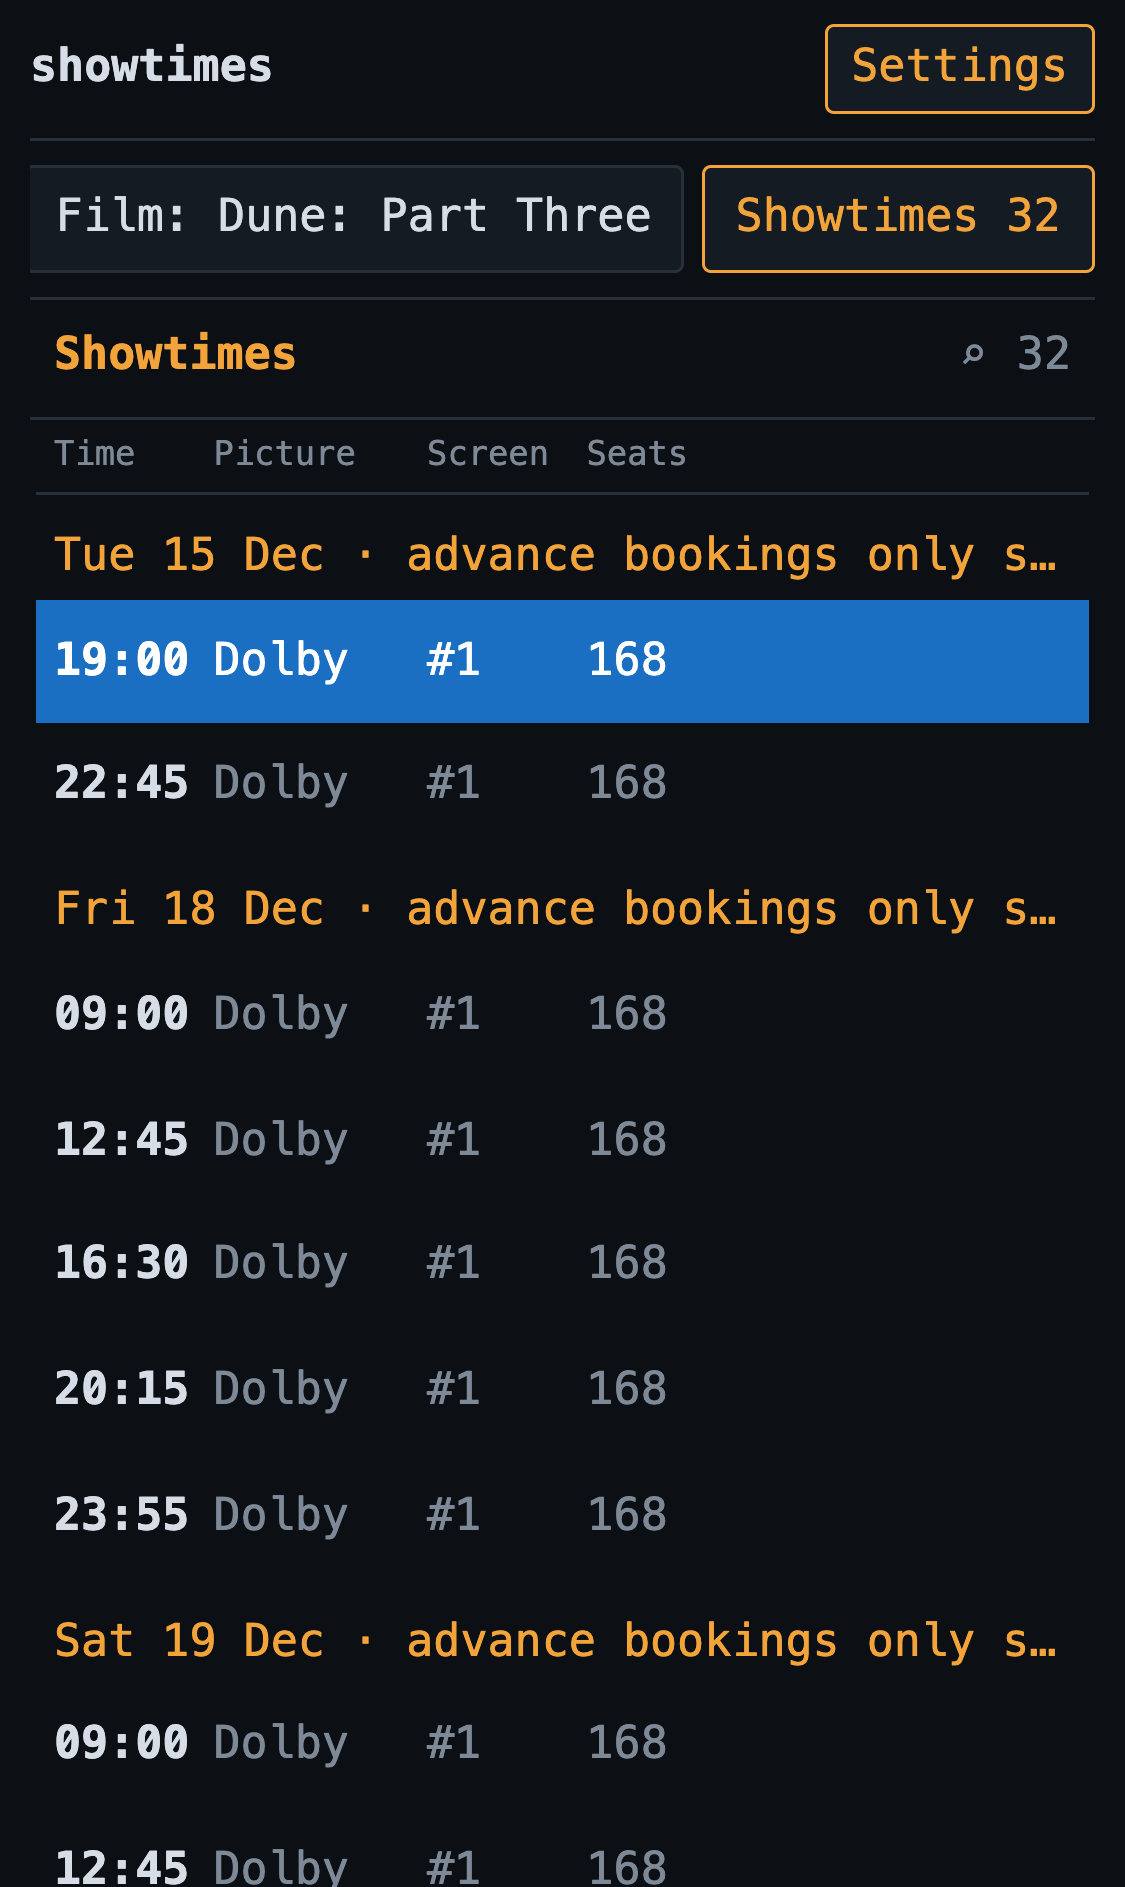
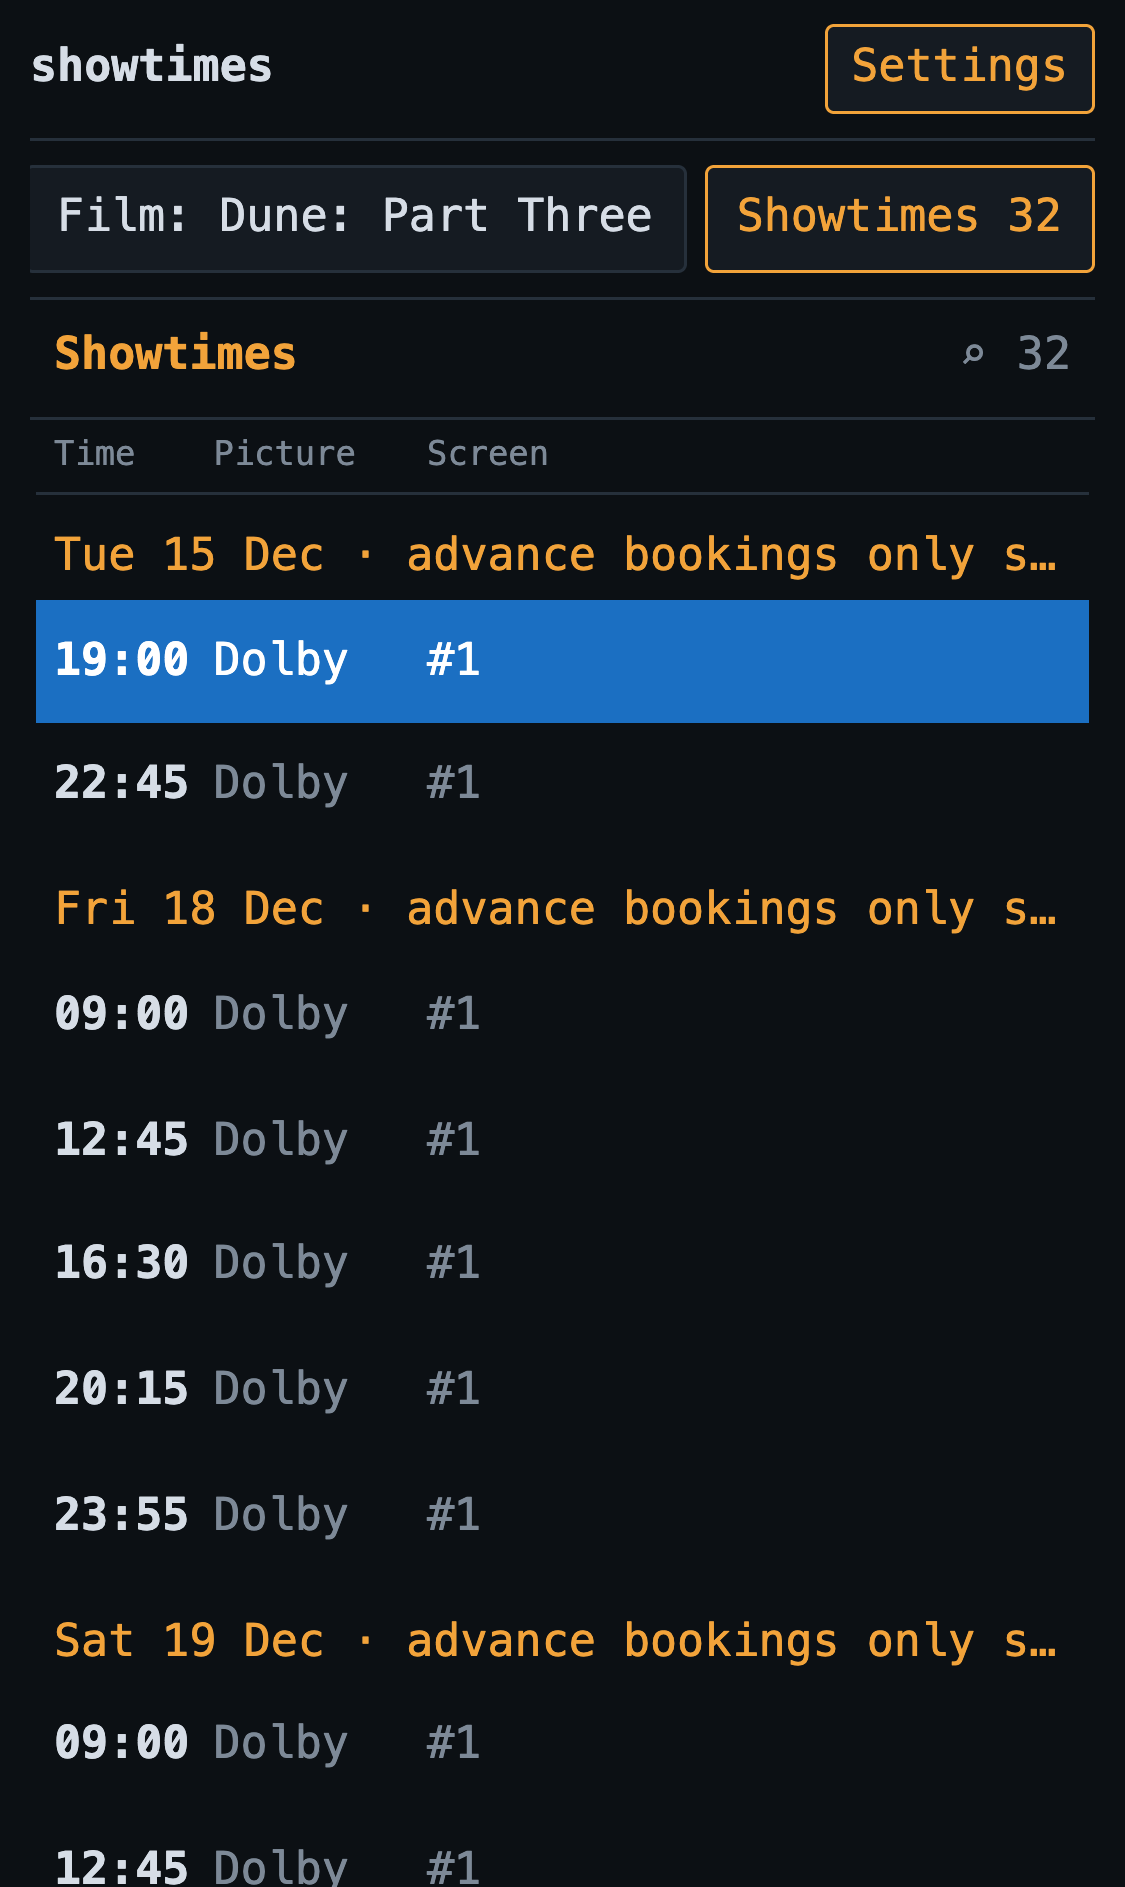
feat(site): open on a Chain column, and drop Seats from the default details
The site now opens on Chain, Cinema and Film. Seats is no longer shown by
default because only ODEON gives screen capacities; it stays available with
:set fields+=seats. The Chain column sizes to its longest name and count, so
neither is cut off. Once a chain is picked, the Cinema column drops its chain
note, which would only repeat the chain.

diff --git a/site/e2e/flow.spec.ts b/site/e2e/flow.spec.ts
@@ -34,7 +34,7 @@ async function visit(page: Page, address: string) {
 
 test('the site opens on the finder, with the default columns and a quick start', async ({ page }) => {
   await visit(page, '/');
-  await expect(titles(page)).toHaveText(['Cinema', 'Film', 'Showtimes', /./]);
+  await expect(titles(page)).toHaveText(['Chain', 'Cinema', 'Film', 'Showtimes', /./]);
   await expect(total(page)).toHaveText('254'); // event cinema left out
   await expect(choices(page, 'Film')).toHaveText([/^All/, /^Dune/, /^Paddington/]);
 });
@@ -57,7 +57,7 @@ test('keys choose in each column, each counts what the others leave, and the add
   await page.keyboard.press('g'); // the first line: All
   await expect(total(page)).toHaveText('3');
   await page.locator('header h1 a').click(); // the default view, which needs nothing after the address
-  await expect(titles(page)).toHaveText(['Cinema', 'Film', 'Showtimes', /./]);
+  await expect(titles(page)).toHaveText(['Chain', 'Cinema', 'Film', 'Showtimes', /./]);
   await expect(page).toHaveURL(/\/$/);
 });
 
@@ -84,7 +84,7 @@ test('vim keys move between and through the columns', async ({ page }) => {
 });
 
 test('/ and ? search a column as vim does, dd hides, u and Ctrl-r undo and redo, and :help lists it all', async ({ page }) => {
-  await visit(page, '/#col=2');
+  await visit(page, '/#col=3');
   await page.keyboard.press('/');
   await page.keyboard.type('padd'); // found as it is typed
   await expect(column(page, 'Film').locator('li.selected')).toContainText('Paddington');
@@ -116,7 +116,7 @@ test('/ and ? search a column as vim does, dd hides, u and Ctrl-r undo and redo,
 });
 
 test('vim keys move through the showtimes by count, day and screen', async ({ page }) => {
-  await visit(page, '/#film=odeon-F2&col=3'); // Paddington: one showing on day 1, then ten a day from day 3
+  await visit(page, '/#film=odeon-F2&col=4'); // Paddington: one showing on day 1, then ten a day from day 3
   const selected = () => showtimes(page).evaluateAll((rows) => rows.findIndex((row) => row.classList.contains('selected')));
   await page.keyboard.press('}');
   await expect.poll(selected).toBe(1); // the next day
@@ -188,7 +188,7 @@ test(':vs adds a column, << and >> move it, :q and :only close them', async ({ p
 });
 
 test('Tab completes commands as vim\'s wildmenu does', async ({ page }) => {
-  await visit(page, '/#col=2');
+  await visit(page, '/#col=3');
   const command = page.locator('.cmdline input');
   const wildmenu = page.locator('.cmdline .wildmenu');
   await page.keyboard.press(':');
@@ -202,7 +202,7 @@ test('Tab completes commands as vim\'s wildmenu does', async ({ page }) => {
   await page.keyboard.press('Shift+Tab');
   await expect(command).toHaveValue('vs day');
   await page.keyboard.press('Enter');
-  await expect(titles(page)).toHaveText(['Cinema', 'Film', 'Day', 'Showtimes', /./]);
+  await expect(titles(page)).toHaveText(['Chain', 'Cinema', 'Film', 'Day', 'Showtimes', /./]);
   await page.keyboard.press(':');
   await page.keyboard.type('set fields+=');
   await page.keyboard.press('Tab'); // the fields not shown yet
@@ -230,15 +230,15 @@ test('the settings drawer is driven by keys too', async ({ page }) => {
   await page.keyboard.press('Enter');
   await page.keyboard.press('d');
   await page.keyboard.press('d'); // removes that column
-  await expect(titles(page)).toHaveText(['Cinema', 'Showtimes', /./]);
+  await expect(titles(page)).toHaveText(['Chain', 'Cinema', 'Showtimes', /./]);
   await page.keyboard.press('u');
-  await expect(titles(page)).toHaveText(['Cinema', 'Film', 'Showtimes', /./]);
+  await expect(titles(page)).toHaveText(['Chain', 'Cinema', 'Film', 'Showtimes', /./]);
   await page.keyboard.press('/');
   await page.keyboard.type('every film');
   await page.keyboard.press('Enter');
   await page.keyboard.press('<');
   await page.keyboard.press('<'); // Film moved left
-  await expect(titles(page)).toHaveText(['Film', 'Cinema', 'Showtimes', /./]);
+  await expect(titles(page)).toHaveText(['Chain', 'Film', 'Cinema', 'Showtimes', /./]);
   await ex(page, 'q');
   await expect(panel).toBeHidden();
   await page.keyboard.press(':');
@@ -248,7 +248,7 @@ test('the settings drawer is driven by keys too', async ({ page }) => {
 });
 
 test(':filter narrows a column and :sort orders it', async ({ page }) => {
-  await visit(page, '/#col=2');
+  await visit(page, '/#col=3');
   await ex(page, 'filter padd');
   await expect(choices(page, 'Film')).toHaveText([/^All/, /^Paddington/]);
   await page.keyboard.press('j');
@@ -264,13 +264,13 @@ test(':filter narrows a column and :sort orders it', async ({ page }) => {
   await ex(page, 'sort! seats');
   await expect(page).toHaveURL(/sort=seats&desc=1/);
   await ex(page, 'set fields+=ends fields-=picture');
-  await expect(page).toHaveURL(/fields=ends,cinema,screen,seats/);
+  await expect(page).toHaveURL(/fields=ends,cinema,screen/);
   await ex(page, 'set fields&');
   await expect(page).not.toHaveURL(/fields=/);
 });
 
 test('a long list of showtimes draws more as the reader scrolls and as the highlight moves', async ({ page }) => {
-  await visit(page, '/#col=3');
+  await visit(page, '/#col=4');
   await expect(showtimes(page)).toHaveCount(100);
   await page.locator('.column.showtimes').evaluate((element) => element.scrollTo(0, element.scrollHeight));
   await expect(showtimes(page)).toHaveCount(200);
@@ -281,7 +281,7 @@ test('a long list of showtimes draws more as the reader scrolls and as the highl
 
 test('the window holds the columns clear of the footer, and a highlighted row clear of its heading', async ({ page }) => {
   await page.setViewportSize({ width: 1024, height: 700 });
-  await visit(page, '/#col=3');
+  await visit(page, '/#col=4');
   for (const [key, times] of [['ArrowDown', 40], ['ArrowUp', 30]] as const) for (let press = 0; press < times; press += 1) await page.keyboard.press(key);
   const box = async (selector: string) => (await page.locator(selector).first().boundingBox())!;
   const [strip, footer, heads, row] = [await box('.columns'), await box('footer'), await box('.showtimes li.heads'), await box('.showtimes .selected')];
@@ -292,7 +292,9 @@ test('the window holds the columns clear of the footer, and a highlighted row cl
 test('the showtimes are headed, a heading orders them, and the settings choose what they show', async ({ page }) => {
   await visit(page, '/#film=odeon-F1');
   const heads = page.locator('.showtimes li.heads');
-  await expect(heads).toHaveText(/Time.*Picture.*Cinema.*Screen.*Seats/); // the film is chosen, so not repeated
+  await expect(heads).toHaveText(/Time.*Picture.*Cinema.*Screen$/); // the film is chosen, so not repeated
+  await ex(page, 'set fields+=seats');
+  await expect(heads).toHaveText(/Time.*Picture.*Cinema.*Screen.*Seats/);
   await expect(page.locator('.column.film li.heads')).toHaveText(/IMDb.*showings/);
   await heads.getByRole('button', { name: 'Order by seats' }).click();
   await expect(page).toHaveURL(/sort=seats/);
@@ -352,14 +354,16 @@ test('event cinema and single cinemas are chosen in the settings', async ({ page
 test('a phone shows one column at a time, and a choice moves on to the next', async ({ page }) => {
   await page.setViewportSize({ width: 375, height: 812 }); // an iPhone 13 mini
   await visit(page, '/');
-  await expect(page.locator('.column:visible .bar h2')).toHaveText('Cinema');
+  await expect(page.locator('.column:visible .bar h2')).toHaveText('Chain');
   // The header is one line, and there is no footer.
   expect((await page.locator('header').boundingBox())!.height).toBeLessThan(50);
   await expect(page.locator('footer')).toBeHidden();
   // Nothing in a column is wider than the screen, so it cannot be dragged sideways.
   const wider = () => page.locator('.column:visible').evaluate((column) => column.scrollWidth - column.clientWidth);
   await expect.poll(wider).toBe(0);
-  await page.locator('.column.cinema li', { hasText: 'All' }).first().click(); // All moves on too
+  await page.locator('.column.chain li', { hasText: 'All' }).first().click(); // All moves on too
+  await expect(page.locator('.column:visible .bar h2')).toHaveText('Cinema');
+  await page.locator('.column.cinema li', { hasText: 'All' }).first().click();
   await expect(page.locator('.column:visible .bar h2')).toHaveText('Film');
   await page.locator('.column.film li', { hasText: 'Dune' }).click();
   await expect(page.locator('.column:visible')).toHaveClass(/showtimes/);
@@ -369,7 +373,7 @@ test('a phone shows one column at a time, and a choice moves on to the next', as
   await expect.poll(wider).toBe(0);
   await expect(page.locator('.column.details .actions a')).toHaveText('Book on odeon.co.uk');
   // Out of date order each row adds its day; what no longer fits is left out, and the seats stay.
-  await visit(page, '/#sort=seats&col=3');
+  await visit(page, '/#fields=picture,cinema,screen,seats&sort=seats&col=4');
   await expect(page.locator('.showtimes li.heads')).toHaveText(/^Day.*Seats ▲$/);
   await expect.poll(wider).toBe(0);
 });

diff --git a/site/src/main.ts b/site/src/main.ts
@@ -132,9 +132,10 @@ const busiest = (values: string[], counts: Map<string, number>) => [...values].s
 const plain = (value: string): [string, string] => [value, ''];
 const tag = (value: string): [string, string] => [value, ''];
 const cinemaNames = () => new Map(db.cinemas.map((cinema) => [cinema.id, cinema.short]));
-/** With more than one chain, a cinema's chain, for a note beside its name: two chains may each have a West End. */
+/** With more than one chain, a cinema's chain, for a note beside its name: two chains may each have a West End.
+ * Once a chain is picked, every cinema left is that chain's, so the note would only repeat it. */
 const chainOf = (cinemaId: string) => {
-  if (db.chains.size < 2) return '';
+  if (db.chains.size < 2 || view.picks.chain) return '';
   const chain = cinemaChains.get(cinemaId);
   return chain ? db.chains.get(chain)?.name ?? chain : '';
 };
@@ -159,7 +160,7 @@ const KINDS: Record<q.Facet, Kind> = {
     },
     natural: alphabetical(() => KINDS.film),
   },
-  cinema: { title: 'Cinema', about: 'each cinema', notes: () => (db.chains.size > 1 ? 'chain' : ''), label: (value) => [names.get(value) ?? value, chainOf(value)], natural: alphabetical(() => KINDS.cinema) },
+  cinema: { title: 'Cinema', about: 'each cinema', notes: () => (db.chains.size > 1 && !view.picks.chain ? 'chain' : ''), label: (value) => [names.get(value) ?? value, chainOf(value)], natural: alphabetical(() => KINDS.cinema) },
   location: { title: 'Location', about: 'towns and cities, and Greater London', label: plain, natural: alphabetical(() => KINDS.location) },
   picture: { title: 'Picture', about: 'IMAX, Dolby, 3D, Laser and the like', label: tag, natural: busiest },
   language: { title: 'Language', about: 'subtitles, captions and the language spoken', label: tag, natural: busiest },

diff --git a/site/src/choices.ts b/site/src/choices.ts
@@ -44,11 +44,11 @@ export const needsEveryCinema = (ticks: Set<string>) => !ticks.size || [...ticks
 /** Showtimes are drawn this many at a time; more follow as the reader nears the end. */
 export const PAGE = 100;
 
-export const DEFAULT_COLUMNS: Facet[] = ['cinema', 'film'];
+export const DEFAULT_COLUMNS: Facet[] = ['chain', 'cinema', 'film'];
 /** What each showtime may show besides its time and film, in the order they are shown. */
 export const FIELDS = ['ends', 'picture', 'language', 'access', 'cert', 'chain', 'cinema', 'screen', 'seats'] as const;
 export type Field = (typeof FIELDS)[number];
-export const DEFAULT_FIELDS: Field[] = ['picture', 'cinema', 'screen', 'seats'];
+export const DEFAULT_FIELDS: Field[] = ['picture', 'cinema', 'screen'];
 /** How a column of choices is ordered: its own way, by how many showings, or (films) by rating. */
 export type Order = 'name' | 'count' | 'rating';
 

diff --git a/site/src/style.css b/site/src/style.css
@@ -37,6 +37,8 @@ footer kbd { color: var(--accent); font: inherit; }
 .columns { flex: 1; min-height: 0; display: flex; overflow-x: auto; }
 .column { flex: 1 1 160px; min-width: 150px; overflow-y: auto; padding: 0 10px; border-right: 1px solid var(--line); scroll-padding-top: 66px; }
 .column.film, .column.cinema, .column.screen, .column.person { flex-basis: 260px; min-width: 200px; }
+/* A few chains: the column is as wide as its longest name and count, no more. */
+.column.chain { flex: none; }
 .column.showtimes, .column.details { flex: 2 1 340px; min-width: 300px; }
 .column.showtimes { flex-grow: 3; }
 /* One heading line: the title, then the search, the order and the count. */

diff --git a/README.md b/README.md
@@ -18,7 +18,7 @@ ODEON, Vue, Everyman, Picturehouse, Showcase, Cineworld, Curzon, The Light, Reel
 Olympic Studios and London independents. [Adding a
 chain](#adding-a-chain) is a module on each side.
 
-![The site as its link opens it: the Cinema and Film columns, every showtime, and the first showtime's details with its double bills and the film's synopsis](docs/screenshots/desktop.png)
+![The site as its link opens it: the Chain, Cinema and Film columns, every showtime, and the first showtime's details with its double bills and the film's synopsis](docs/screenshots/desktop.png)
 
 ## Using the site
 
@@ -28,8 +28,8 @@ chain](#adding-a-chain) is a module on each side.
    move or remove each, and add others: Day (with Today and This weekend), Film,
    Cinema, Location, Picture, Language, Accessibility, Events, Seating, Screen
    (biggest first), Certificate, Genre, People, Distributor, Release (out now or
-   opening soon) and Chain. With more than one chain, the Cinema column says whose
-   each cinema is.
+   opening soon) and Chain. The site opens on Chain, Cinema and Film. Until a chain
+   is picked, the Cinema column says whose each cinema is.
 3. **Narrow it down.** Pick something in any column. Every column shows how many
    showings each choice would leave, and **All** at the top of each takes a choice
    back. Search a column with `/`, narrow it with `:filter`, and order it A–Z, by
